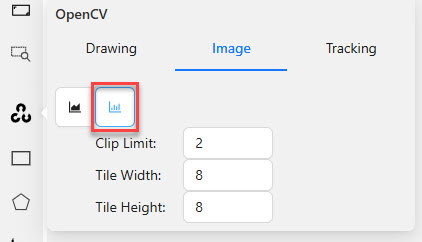
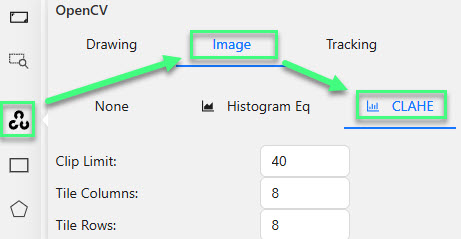
Updating documentation on OpenCV filters

diff --git a/site/content/en/docs/manual/advanced/ai-tools.md b/site/content/en/docs/manual/advanced/ai-tools.md
@@ -282,42 +282,28 @@ All annotated objects will be automatically tracked when you move to the next fr
 
 <!--lint enable maximum-line-length-->
 
-## OpenCV
+## OpenCV Image Filters
+To use **Intelligent scissors**, do the following:
+
+1. On the menu toolbar, click **OpenCV**![OpenCV](/images/image201.jpg) and wait for the library to load.
+
+   <br>![](/images/image198.jpg)
+
+2. Go to the **Image** tab
+
+   ![](/images/image199.jpg)
+
+3. Select the filter to apply and modify the settings as desired. The active tab indicates the active filter, selecting the 'None' tab will deactivate the filter. Only 1 filter is active at a time.
+
+![Example of image filters applied with various settings](/images/image222.jpg)
+
+
 ### Histogram Equalization
+**Histogram equalization** improves the contrast by adjusting the brightness of each pixel to approximate a uniform brightness distribution across the entire image. This can improve contrast in dark or bright regions. In some cases increasing the contrast in some regions may decrease the contrast in others.
 
-**Histogram equalization** improves
-the contrast by stretching the intensity range.
+### CLAHE
+Contrast Limited Adaptive Histogram Equalization (CLAHE) adjust the brightness to create a more uniform brightness distribution but works in over local regions and bounds how much each pixel can be adjusted.
 
-It increases the global contrast of images
-when its usable data is represented by close contrast values.
+At a high level, the image is broken into tiles (configured with 'Tile Columns' and 'Tile Rows') and histogram equalization is applied to each tile. The amount that each pixel's brightness can be adjusted is clamped to a specified value (configured by the 'Clip Limit' value). This means setting tile rows and columns both to 1 and clip limit to 255 will result in the same image as regular histogram equalization.
 
-It is useful in images with backgrounds
-and foregrounds that are bright or dark.
-
-To improve the contrast of the image, do the following:
-
-1. In the **OpenCV** menu, go to the **Image** tab.
-2. Click on **Histogram equalization** button.
-   <br>![](/images/image221.jpg)
-
-**Histogram equalization** will improve
-contrast on current and following
-frames.
-
-Example of the result:
-
-![](/images/image222.jpg)
-
-To disable **Histogram equalization**, click on the button again.
-
-### Contrast Limited Adaptive Histogram Equalization
-Contrast Limited Adaptive Histogram Equalization (CLAHE) increases contrast by applying clipped histogram equalization to multiple tiles across the input image. In images where there are both very bright and very dark regions, this improves contrast in the dark regions without loosing contrast in the bright ones.
-
-#### Parameters
-* Clip Limit: Maximum value a pixel can be adjusted. Higher values allow for noise to be over-amplified.
-* Tile Rows: How many rows of tiles to break the image into.
-* Tile Columns: How many columns of tiles to break the image into.
-
-
-User Interface
 ![](/images/opencv-image-clahe_interaction.jpg)
